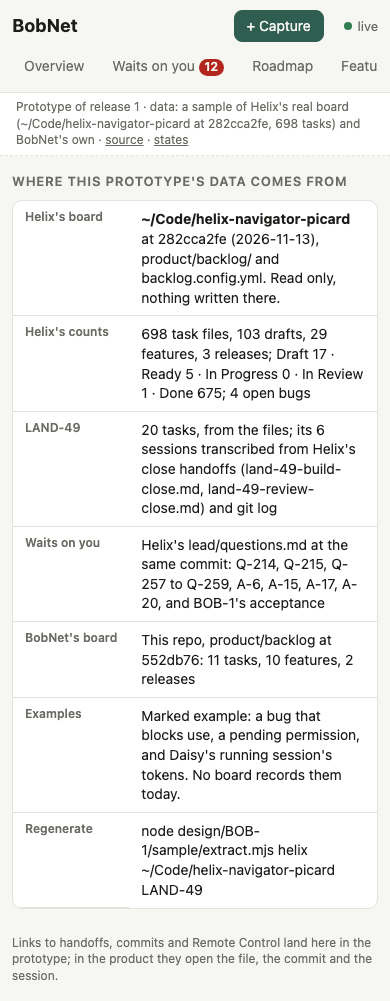
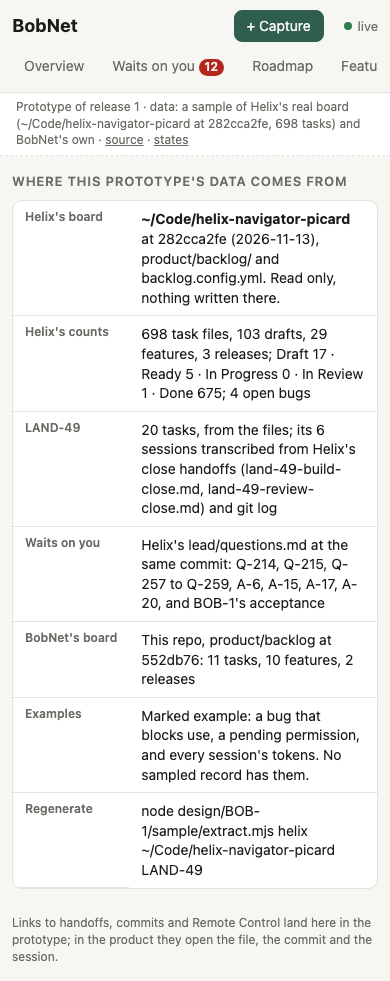
v2: design: BOB-1 closed sessions show their total tokens (Peach, steps-view 7)

diff --git a/design/BOB-1/sample/records.js b/design/BOB-1/sample/records.js
@@ -4,7 +4,8 @@
 //              riker-land-49-rulings.md, and helix-navigator-picard's git log (commits named below)
 //   questions: helix-navigator-picard lead/questions.md at 282cca2fe (Q-n and A-n, with the date each row was added)
 // In the service, sessions come from BobNet's own records of its runs and their structured close (README T3),
-// questions from the board (C8). Items marked example: true are not on any board; they show a state Helix has no record of.
+// questions from the board (C8). A closed session's tokens are examples: no usage record was sampled.
+// Items marked example: true are not on any board; they show a state Helix has no record of.
 (window.SAMPLES ??= {}).records = {
   now: "2026-11-13T21:20:00-06:00",
   sessions: {
@@ -13,32 +14,32 @@
         need: "casper", needs: ["Q-253", "Q-254"], blockers: 0, majors: 0,
         moved: [["49.1", "Ready"], ["49.3", "Ready"], ["49.4", "Ready"], ["49.7", "Ready"], ["49.8", "Ready"], ["49.15", "Ready"], ["49.16", "Ready"], ["49.17", "Ready"], ["49.6", "In Review"], ["49.12", "In Review"]],
         summary: "Notes for 49.1 and 49.7, ADR 0108 proposed (49.6), Calvin's prototype for 49.2, 5, 9, 10, 11 (49.12). Ready in build order.",
-        handoff: "riker-land-49-rulings.md", commit: "f70149dcd" },
+        handoff: "riker-land-49-rulings.md", commit: "f70149dcd", tokens: 4200000, tokensExample: true },
       { kind: "build", label: "Build 1", start: "2026-11-12T00:10", end: "2026-11-12T14:50", state: "closed",
         need: "casper", needs: ["Q-253", "Q-254", "Q-255", "A-17"], blockers: 0, majors: 0,
         moved: [["49.1", "In Review"], ["49.3", "In Review"], ["49.4", "In Review"], ["49.7", "In Review"], ["49.8", "In Review"], ["49.15", "In Review"], ["49.16", "In Review"], ["49.17", "In Review"]],
         summary: "All 8 Ready tasks built, on main, deployed to staging with evidence. Six drafts (DRAFT-85 to 90).",
-        handoff: "land-49-build-close.md", commit: "e289f170" },
+        handoff: "land-49-build-close.md", commit: "e289f170", tokens: 38600000, tokensExample: true },
       { kind: "review", label: "Review 1", start: "2026-11-12T14:50", end: "2026-11-12T18:20", state: "closed",
         need: "none", needs: [], blockers: 0, majors: 0, minors: 9,
         moved: [["49.1", "Done"], ["49.3", "Done"], ["49.4", "Done"], ["49.6", "Done"], ["49.7", "Done"], ["49.8", "Done"], ["49.12", "Done"], ["49.15", "Done"], ["49.16", "Done"], ["49.17", "Done"], ["49.2", "Ready"], ["49.5", "Ready"], ["49.9", "Ready"], ["49.10", "Ready"], ["49.11", "Ready"]],
         summary: "8 reviewed once; 9 minors, all fixed. Casper ruled Q-253 to Q-256 in session.",
-        handoff: "land-49-review-close.md", commit: "f7d9b4ec8" },
+        handoff: "land-49-review-close.md", commit: "f7d9b4ec8", tokens: 12900000, tokensExample: true },
       { kind: "build", label: "Build 2", start: "2026-11-12T18:45", end: "2026-11-13T02:23", state: "closed",
         need: "none", needs: [], blockers: 0, majors: 0,
         moved: [["49.2", "In Review"], ["49.5", "In Review"], ["49.9", "In Review"], ["49.10", "In Review"], ["49.11", "In Review"]],
         summary: "The five prototype-gated tasks built. DRAFT-93 (account rename).",
-        handoff: null, commit: "0ebdd887a" },
+        handoff: null, commit: "0ebdd887a", tokens: 21300000, tokensExample: true },
       { kind: "review", label: "Review 2", start: "2026-11-13T07:28", end: "2026-11-13T10:42", state: "closed",
         need: "casper", needs: ["Q-257", "Q-258", "Q-259"], blockers: 0, majors: 0, back: 2,
         moved: [["49.2", "Done"], ["49.9", "Done"], ["49.10", "Done"], ["49.5", "Ready"], ["49.11", "Ready"], ["49.18", "Ready"], ["49.19", "Ready"], ["49.20", "Ready"]],
         summary: "Nothing blocks (review 0125). 49.5 and 49.11 back; 49.18 to 49.20 new.",
-        handoff: null, commit: "6fa0a46ca" },
+        handoff: null, commit: "6fa0a46ca", tokens: 9800000, tokensExample: true },
       { kind: "build", label: "Fixes", start: "2026-11-13T18:00", end: "2026-11-13T20:44", state: "closed",
         need: "casper", needs: ["Q-258"], blockers: 0, majors: 0,
         moved: [["49.5", "Done"], ["49.11", "Done"], ["49.18", "Done"], ["49.20", "Done"], ["49.19", "Ready"]],
         summary: "49.19 stays Ready until Q-258. DRAFT-107 (web-bff refresh-token rotation).",
-        handoff: null, commit: "1623d7e04" },
+        handoff: null, commit: "1623d7e04", tokens: 7400000, tokensExample: true },
     ],
     "BOB-1": [
       { kind: "design", label: "Design", start: "2026-11-13T20:45", end: null, state: "running",

diff --git a/design/BOB-1/prototype/proto.js b/design/BOB-1/prototype/proto.js
@@ -285,7 +285,8 @@ function stepItem(p, s, byShort, last) {
         h("span", { class: "need", dataset: { need: s.need } }, `need: ${s.need}`, s.needs.length ? ` (${s.needs.join(", ")})` : ""),
         h("span", null, `${plural(s.blockers, "blocker")} · ${plural(s.majors, "major")}`),
         s.minors ? h("span", null, `${s.minors} minors, fixed`) : null, s.back ? h("span", null, `${s.back} sent back`) : null,
-        h("span", null, closedN ? `closed ${plural(closedN, "task")}` : `moved ${plural(s.moved.length, "task")}`)) : null,
+        h("span", null, closedN ? `closed ${plural(closedN, "task")}` : `moved ${plural(s.moved.length, "task")}`),
+        s.tokens ? h("span", { class: "muted" }, `${tok(s.tokens)} tokens`, " ", ex(s.tokensExample)) : null) : null,
       (s.agents ?? []).map((a) => h("div", { class: "agent" }, h("b", null, a.name, " ", ex(a.example)), h("span", { class: "d" }, a.checkpoint),
         h("span", { class: "d" }, `${a.model} · ${a.laptop} · ${dur(s.start, R.now.slice(0, 16))} · ${tok(a.tokens)} tokens · context ${tok(a.ctx)}`))),
       h("div", { class: "sub" }, s.summary),
@@ -439,7 +440,7 @@ function source() {
         row("LAND-49", `${hx.tasks.length} tasks, from the files; its 6 sessions transcribed from Helix's close handoffs (land-49-build-close.md, land-49-review-close.md) and git log`),
         row("Waits on you", "Helix's lead/questions.md at the same commit: Q-214, Q-215, Q-257 to Q-259, A-6, A-15, A-17, A-20, and BOB-1's acceptance"),
         row("BobNet's board", `This repo, product/backlog at ${bn.source.commit}: ${bn.counts.tasks} tasks, ${bn.counts.features} features, ${bn.counts.releases} releases`),
-        row("Examples", "Marked example: a bug that blocks use, a pending permission, and Daisy's running session's tokens. No board records them today."),
+        row("Examples", "Marked example: a bug that blocks use, a pending permission, and every session's tokens. No sampled record has them."),
         row("Regenerate", "node design/BOB-1/sample/extract.mjs helix ~/Code/helix-navigator-picard LAND-49"))))),
     h("p", { class: "note" }, "Links to handoffs, commits and Remote Control land here in the prototype; in the product they open the file, the commit and the session."),
   ];

diff --git a/design/BOB-1/notes.md b/design/BOB-1/notes.md
@@ -22,7 +22,8 @@ or corrects go in BOB-1's notes (BOB-1 #6), not here.
 6. A **"fixes" session is a build with the label Fixes** in the chain (as Helix records it). Its kind colour is
    build's. Whether "fixes" becomes a kind of its own stays Peach's question (steps-view.md).
 7. Session kinds use style.css's existing kind colours (design, build, review, retro).
-8. Tokens show on **running** agents only (with context and model). Closed sessions show no usage.
+8. Tokens show on running agents (with context and model), and a closed session's **total tokens** sit last on
+   its outcome line, muted (Peach, steps-view 7).
 
 **What shows at phone width**
 9. Tabs scroll sideways (as today); **Waits on you comes second**, so its count is never off-screen.
@@ -77,6 +78,8 @@ or corrects go in BOB-1's notes (BOB-1 #6), not here.
 - "Release scope" is features and backlog items in or out of a release, the order of releases, and closing
   one; no text editing (board-writes 4).
 - Closing with open features needs a confirmation naming each and where it goes (board-writes 5).
+- A closed session shows its total tokens (all its agents, plus the orchestrator's share where known),
+  secondary, after the outcome (steps-view 7).
 
 ## Open points
 
@@ -89,12 +92,11 @@ or corrects go in BOB-1's notes (BOB-1 #6), not here.
 3. **Criteria are rarely ticked on Helix.** Many Done features show low counts (LAND-22: 3 of 138, LAND-35: 3 of
    39), so criteria are a weak progress measure on today's data. Shown as it is (Peach's ruling). Worth raising
    with Picard before the migration.
-4. **Nothing in the sample marks a bug "blocks use" or records a pending permission.** Both are shown as
-   *example* items (the bug is shaped on LAND-49.20). The running agent's tokens are an example too.
+4. **Nothing in the sample marks a bug "blocks use", records a pending permission, or counts a session's
+   tokens.** All three are shown as *example* (the bug is shaped on LAND-49.20); the token figures are
+   placeholders until the service reads BobNet's run records.
 5. **One laptop only.** Both real projects run on mbp-1, so the prototype can't show two laptops. Envision,
    Echo and Vitals aren't in the sample.
-6. **Tokens for closed sessions.** steps-view 7 says usage is tokens, not money. Should a closed session show
-   the tokens it used? The prototype shows none. (Asked Peach.)
-7. **"Fixes" as a session kind** stays Peach's open question (steps-view.md); shown as a build labelled Fixes.
-8. **Playwright isn't in packages/broker's devDependencies** (the brief said it was). The screenshots used
+6. **"Fixes" as a session kind** stays Peach's open question (steps-view.md); shown as a build labelled Fixes.
+7. **Playwright isn't in packages/broker's devDependencies** (the brief said it was). The screenshots used
    helix-navigator-access's playwright-core 1.63.0, which matches the installed Chromium; nothing installed.

diff --git a/design/BOB-1/spec.md b/design/BOB-1/spec.md
@@ -11,7 +11,7 @@ board, for Casper to accept or correct (BOB-1 #6). Luigi builds from this file, 
   read only (Helix: `~/Code/helix-navigator-picard` at 282cca2fe, 698 tasks, 103 drafts, 29 features, 3
   releases). `sample/records.js` holds what no board file has: LAND-49's six sessions, transcribed from Helix's
   close handoffs and git log, and the waits-on-Casper items from Helix's `lead/questions.md`. Three things are
-  marked *example* on screen (a bug that blocks use, a pending permission, a running agent's tokens): no
+  marked *example* on screen (a bug that blocks use, a pending permission, sessions' tokens): no
   record of them exists to sample. The `#source` screen names all of it; a strip under the header names it on
   every screen.
 - **Screenshots:** `shots/<criterion>-<screen>-<width>.png` at 390, 1024 and 1440. Retake with
@@ -68,7 +68,7 @@ view. Capture is on every screen.
   `--k-design`, `--k-build`, `--k-review`, `--k-retro`), kind, label (Design, Build 1, Review 1, Build 2, Review
   2, Fixes), start and end with duration, state (running, closed, waiting). A closed one shows its outcome
   in one line: **need** (none in green, casper in amber, with the items), blockers and majors, minors fixed or
-  tasks sent back, tasks closed or moved. A running one shows its agents live (model, laptop, time, **tokens**,
+  tasks sent back, tasks closed or moved, then its total tokens, muted. A running one shows its agents live (model, laptop, time, **tokens**,
   context, last checkpoint). Then a sentence of summary, links (handoff, the close commit, Remote Control
   where there is one), and **Tasks it moved**, folded except on the latest session, each with the status the
   session left it in and its criteria now.
